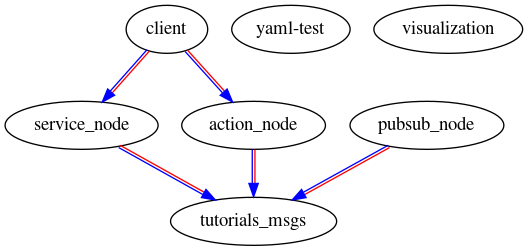
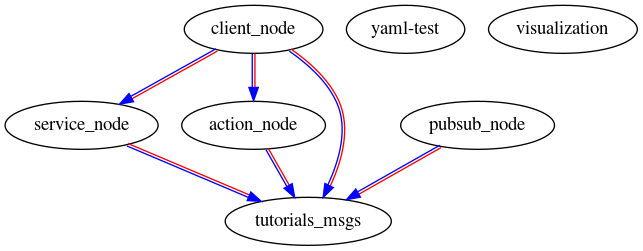
add client_node

diff --git a/src/action_node/src/action_client.cpp b/src/action_node/src/action_client.cpp
@@ -17,7 +17,13 @@ ActionClient::ActionClient(std::string name, const rclcpp::NodeOptions &node_opt
             this->get_node_waitables_interface(),
             "fibonacci");
 
-    this->timer_ = this->create_wall_timer(0.5s,std::bind(&ActionClient::send_goal, this));
+    // default value
+    goal_.order = 0;
+
+    // heartbeat test
+    timer_ = this->create_wall_timer(1s, [this]() {
+        RCLCPP_INFO(this->get_logger(), "node %s is alive", this->get_name());
+    });
 }
 
 bool ActionClient::is_goal_done() const {
@@ -25,23 +31,22 @@ bool ActionClient::is_goal_done() const {
 }
 
 void ActionClient::cancel_goal() {
-    this->timer2_->cancel();
-
     // in case server not available
-    if(goal_handle_future_.valid()) {
+    if (goal_handle_future_.valid()) {
         auto cancel_result_future = this->client_ptr_->async_cancel_goal(goal_handle_future_.get());
     }
+}
 
-    this->timer_ = this->create_wall_timer(1s,std::bind(&ActionClient::send_goal, this));
+void ActionClient::set_goal(ActionMessage::Goal goal) {
+    goal_ = goal;
+}
+
+void ActionClient::set_processor(ActionClient::FeedbackProcessor processor) {
+    feedback_processor_ = processor;
 }
 
 void ActionClient::send_goal() {
     using namespace std::placeholders;
-
-    this->timer_->cancel();
-
-    // cancel after a while
-    this->timer2_ = this->create_wall_timer(5s, std::bind(&ActionClient::cancel_goal, this));
 
     this->goal_done_ = false;
 
@@ -55,8 +60,7 @@ void ActionClient::send_goal() {
         return;
     }
 
-    auto goal_msg = ActionMessage::Goal();
-    goal_msg.order = 100;
+    auto goal_msg = goal_;
 
     RCLCPP_INFO(this->get_logger(), "------------------------------------------------");
     RCLCPP_INFO(this->get_logger(), "Sending goal");
@@ -86,8 +90,14 @@ void ActionClient::feedback_callback(ActionGoalHandle::SharedPtr,
     RCLCPP_INFO(
             this->get_logger(),
             "Next number in sequence received: %"
-                    PRId64,
+    PRId64,
             feedback->partial_sequence.back());
+
+    if (feedback_processor_) {
+        feedback_processor_(feedback);
+    } else {
+        std::cout << "no feedback processor" << std::endl;
+    }
 }
 
 void
